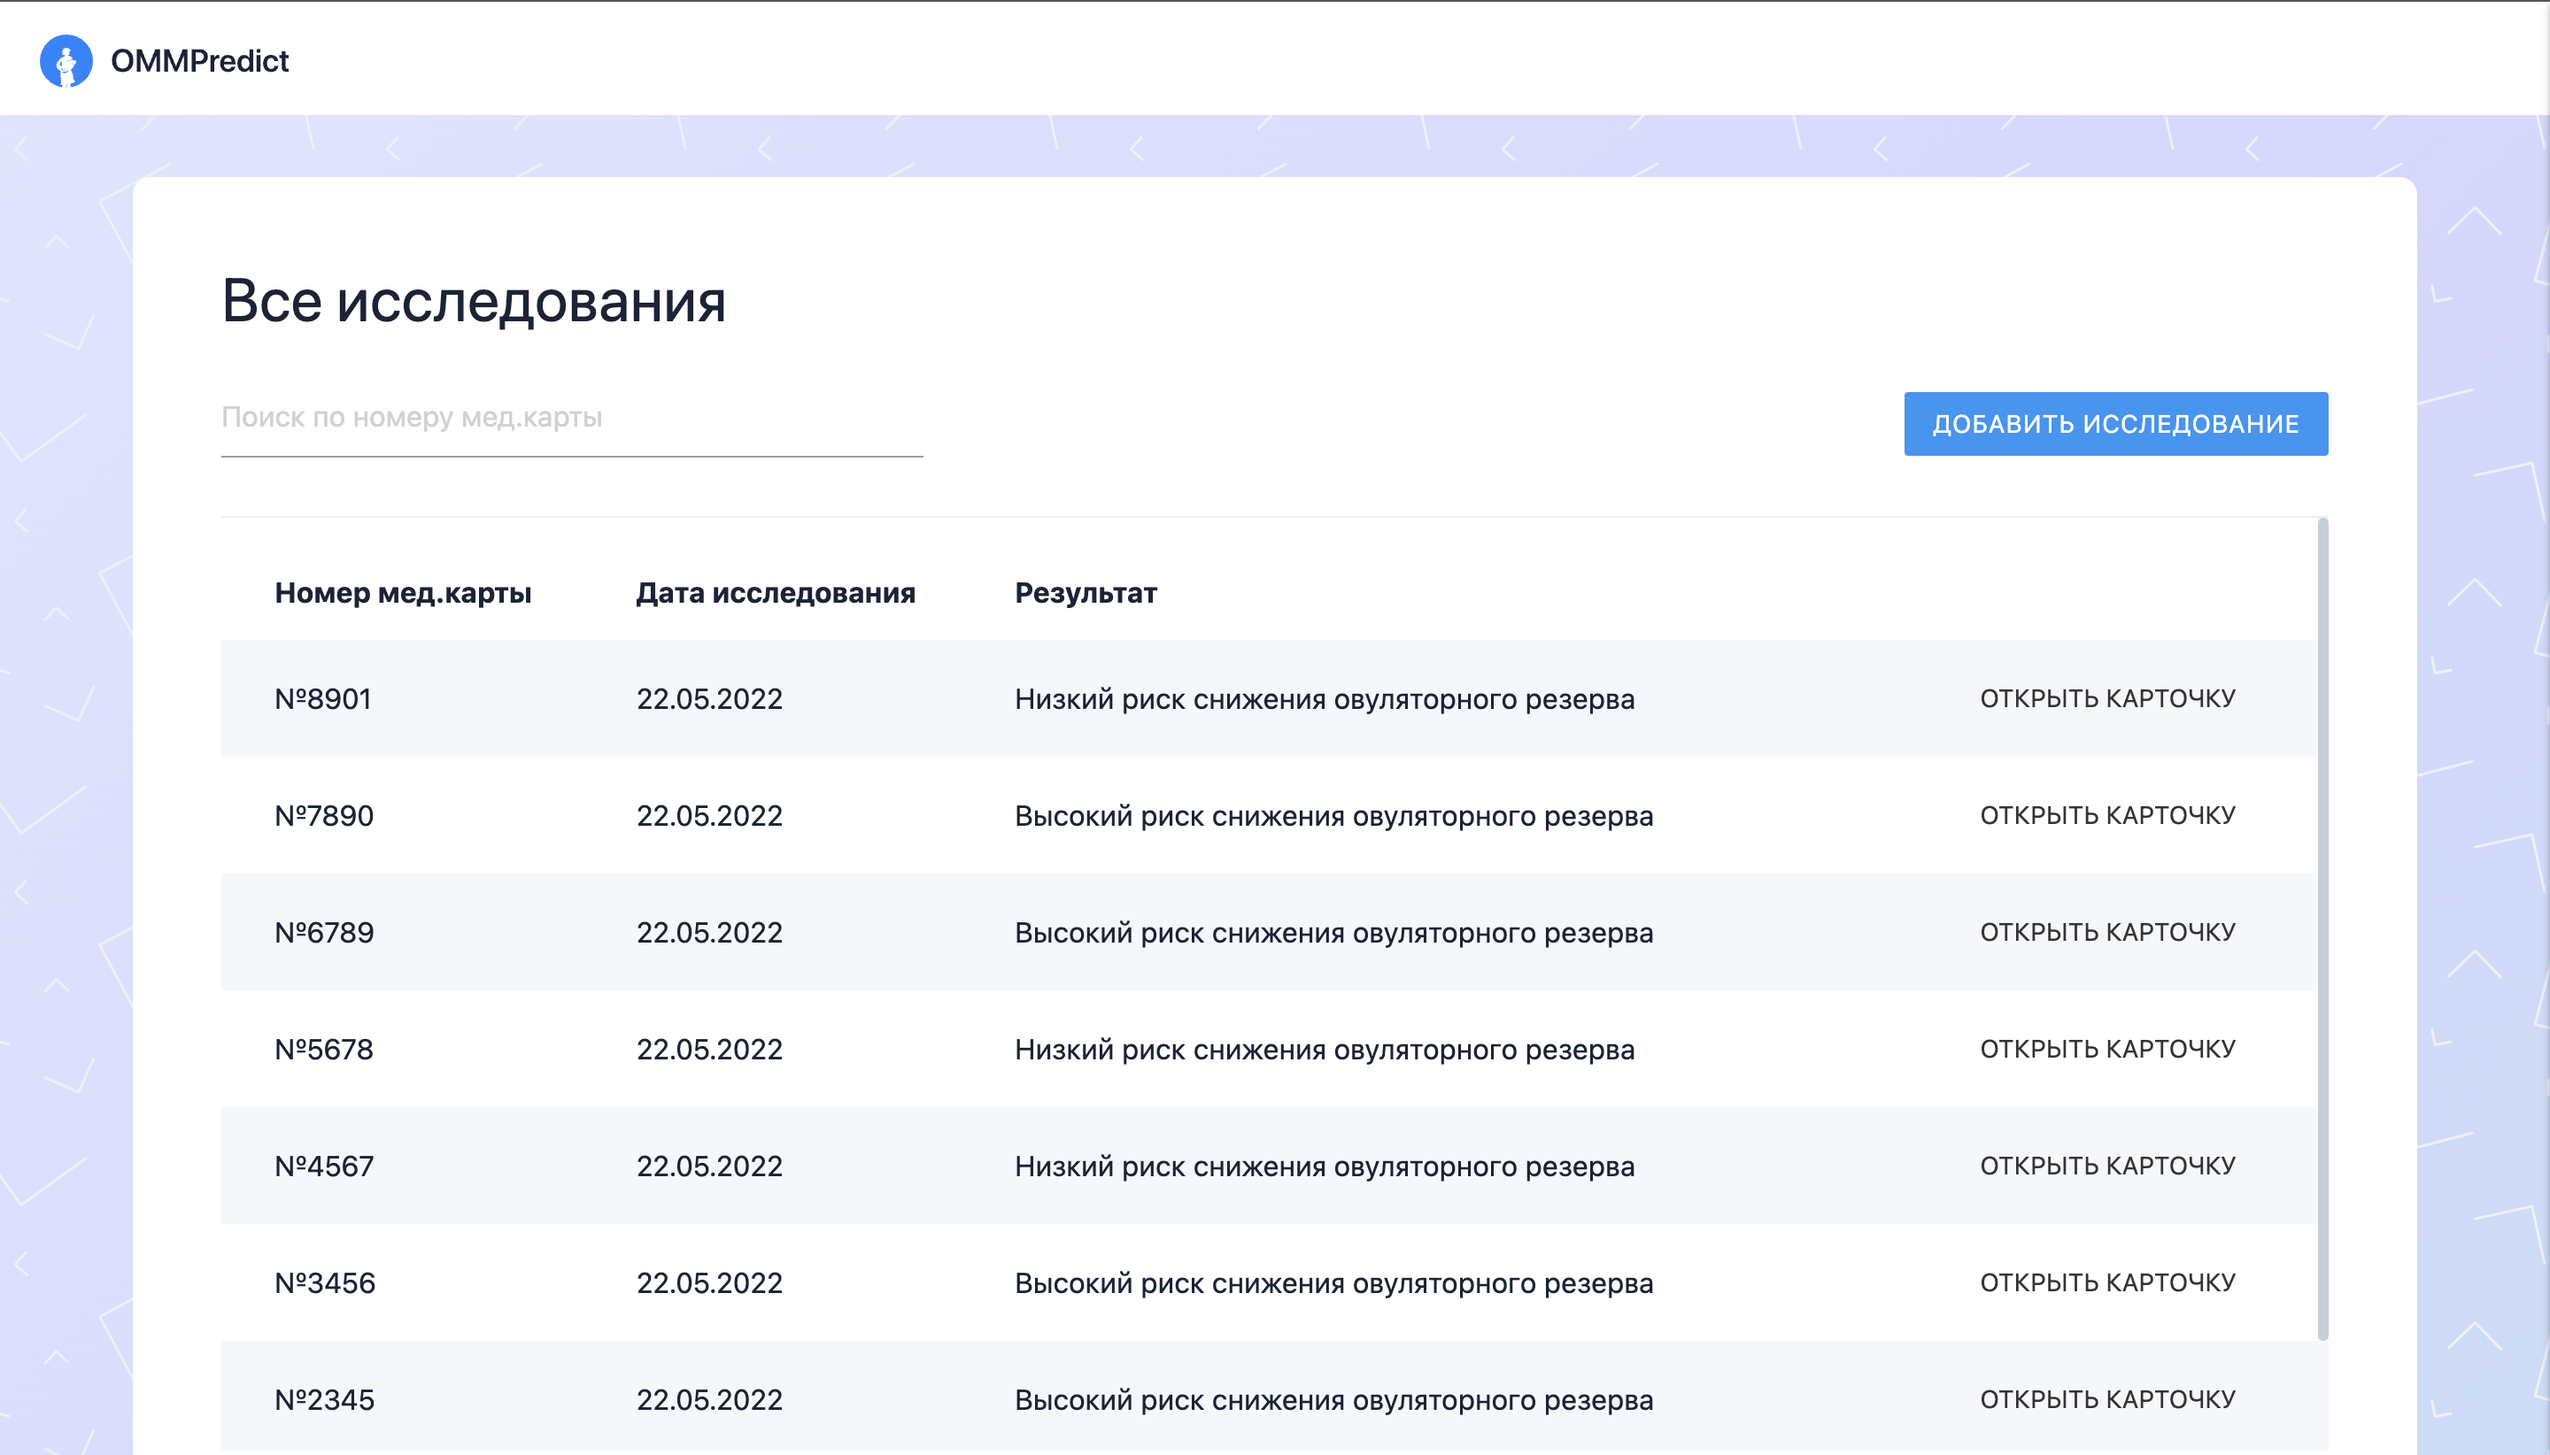
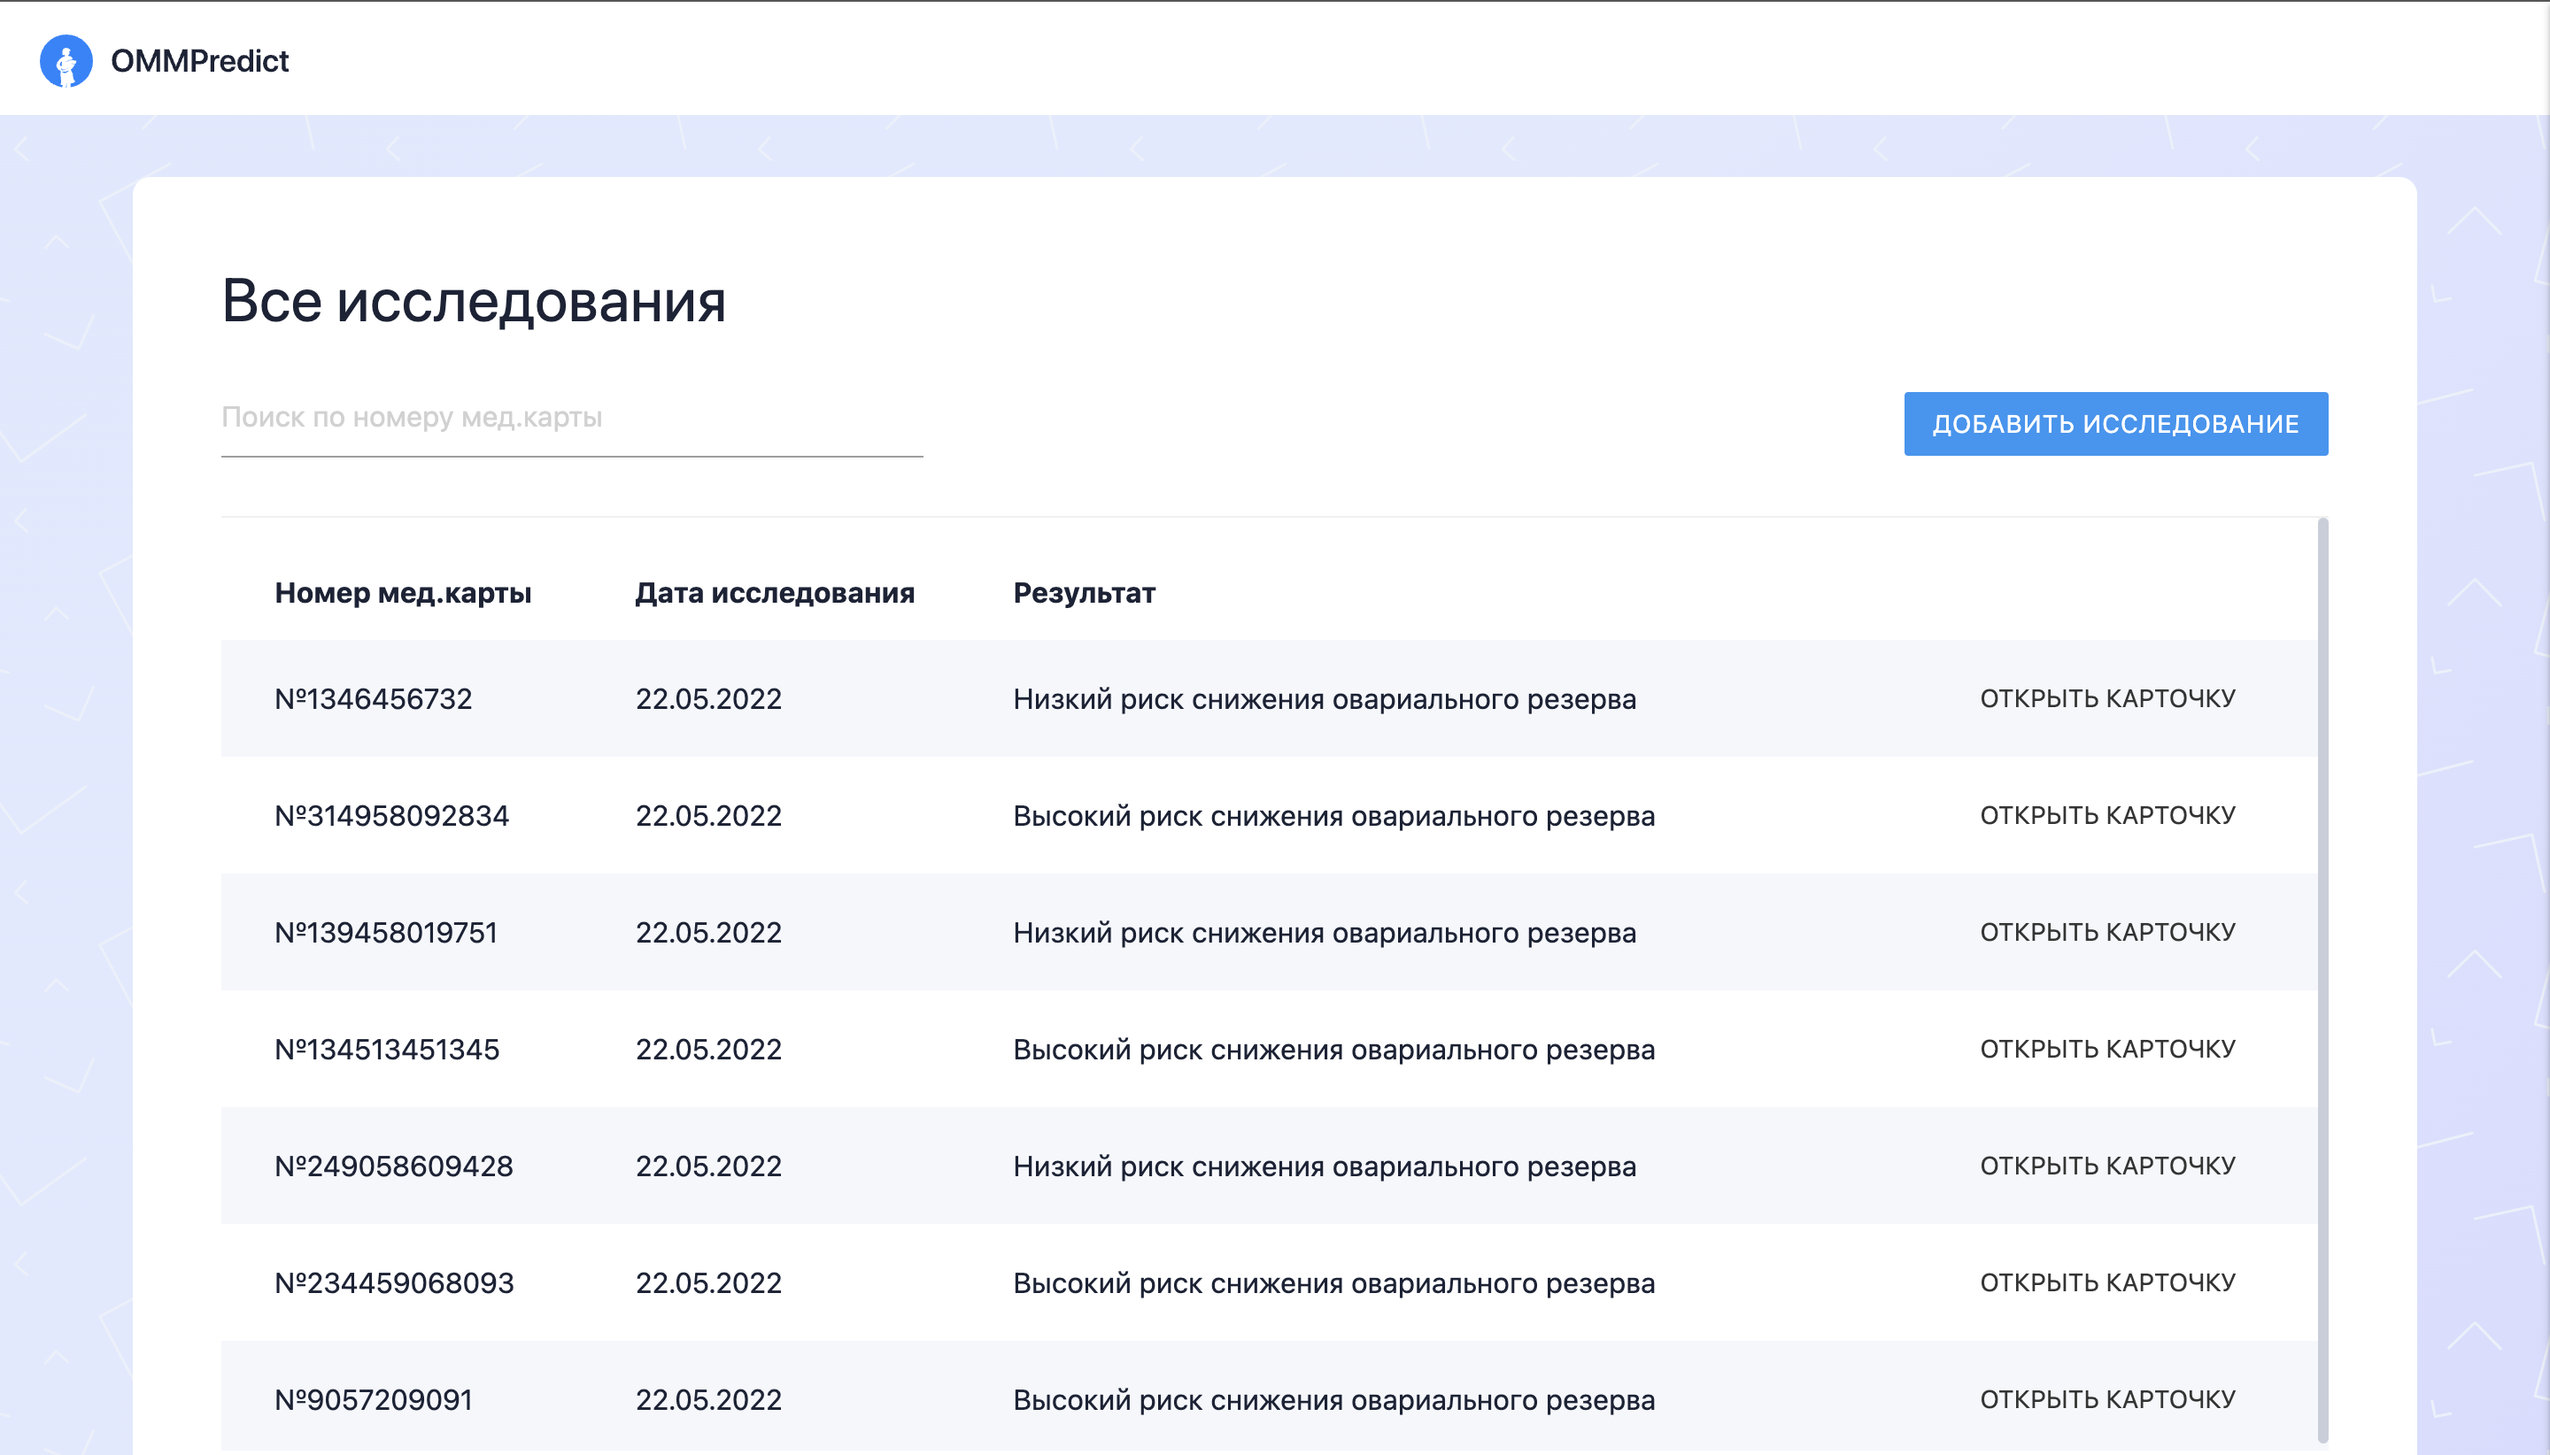
new screenshots, fix small bugs

diff --git a/Web-application (Flask)/app/static/js/sidepage.js b/Web-application (Flask)/app/static/js/sidepage.js
@@ -47,13 +47,13 @@ function fillData(data) {
                 <p>${data[0].date_research}</p>
             </div>
             <div class="resultside col s3">
-                <p class="resultside__p" style="color: white !important; background-color: #66bb6a;">Низкий риск снижения овуляторного резерва</p>
+                <p class="resultside__p" style="color: white !important; background-color: #66bb6a;">Низкий риск снижения овариального резерва</p>
             </div>
             <div class="divider"></div>
             <form class="params" id="params" data-id="${data[0].id}">
                 <div class="input-field col s3 paramsside">
-                    <select class="input-text" value="${data[0].relapse}" id="relapse" type="text" name="relapse" required>
-                    <option value="${data[0].relapse}" disabled selected>${data[0].relapse}</option>
+                    <select form="params" class="input-select" value="${data[0].relapse}" id="relapse" type="text" name="relapse" required>
+                    <option value="${data[0].relapse}" selected>${data[0].relapse}</option>
                     <option value="1">1</option>
                     <option value="0">0</option>
                     </select>
@@ -140,44 +140,48 @@ function fillData(data) {
                 <p>${data[0].date_research}</p>
             </div>
             <div class="resultside col s3">
-                <p class="resultside__p" style="color: white !important; background-color: #ef5350;">Высокий риск снижения овуляторного резерва</p>
+                <p class="resultside__p" style="color: white !important; background-color: #ef5350;">Высокий риск снижения овариального резерва</p>
             </div>
             <div class="divider"></div>
             <form class="params" id="params" data-id="${data[0].id}">
                 <div class="input-field col s3 paramsside">
-                    <input class="input-text" value="${data[0].relapse}" id="relapse" type="text" name="relapse">
+                    <select class="input-select" form="params" value="${data[0].relapse}" id="relapse" type="text" name="relapse" required>
+                    <option value="${data[0].relapse}" selected>${data[0].relapse}</option>
+                    <option value="1">1</option>
+                    <option value="0">0</option>
+                    </select>
                     <label for="relapse">Рецидив эндометриомы яичника</label>
                 </div>
                 <div class="input-field col s3 paramsside">
-                    <input class="input-text" value="${data[0].periods}" id="periods" type="text" name="periods">
+                    <input class="input-text" value="${data[0].periods}" id="periods" type="text" name="periods" required>
                     <label for="periods">Менструация, дней</label>
                 </div>
                 <div class="input-field col s3 paramsside">
-                    <input class="input-text" value="${data[0].emergency_birth}" id="emergency_birth" type="text" name="emergency_birth">
+                    <input class="input-text" value="${data[0].emergency_birth}" id="emergency_birth" type="text" name="emergency_birth" required>
                     <label for="emergency_birth">Срочные оперативные роды (кол-во)</label>
                 </div>
                 <div class="input-field col s3 paramsside">
-                    <input class="input-text" value="${data[0].first_symptom}" id="first_symptom" type="text" name="first_symptom">
+                    <input class="input-text" value="${data[0].first_symptom}" id="first_symptom" type="text" name="first_symptom" required>
                     <label for="first_symptom">Появление первых симптомов (лет)</label>
                 </div>
                 <div class="input-field col s3 paramsside">
-                    <input class="input-text" value="${data[0].fsh}" id="fsh" type="text" name="fsh">
+                    <input class="input-text" value="${data[0].fsh}" id="fsh" type="text" name="fsh" required>
                     <label for="fsh">ФСГ до операции, мМе/мл</label>
                 </div>
                 <div class="input-field col s3 paramsside">
-                    <input class="input-text" value="${data[0].mecho}" id="mecho" type="text" name="mecho">
+                    <input class="input-text" value="${data[0].mecho}" id="mecho" type="text" name="mecho" required>
                     <label for="mecho">М-Эхо</label>
                 </div>
                 <div class="input-field col s3 paramsside">
-                    <input class="input-text" value="${data[0].vleft}" id="vleft" type="text" name="vleft">
+                    <input class="input-text" value="${data[0].vleft}" id="vleft" type="text" name="vleft" required>
                     <label for="vleft">V левого яичника</label>
                 </div>
                 <div class="input-field col s3 paramsside">
-                    <input class="input-text" value="${data[0].vright}" id="vright" type="text" name="vright">
+                    <input class="input-text" value="${data[0].vright}" id="vright" type="text" name="vright" required>
                     <label for="vright">V правого яичника</label>
                 </div>
                 <div class="input-field col s3 paramsside">
-                    <select name="vegfa634" form="params" class="input-select" id="vegfa634" type="text" name="vegfa634">
+                    <select name="vegfa634" form="params" class="input-select" id="vegfa634" type="text" name="vegfa634" required>
                         <option value="${data[0].vegfa634}" selected>${data[0].vegfa634}</option>
                         <option value="CC">CC</option>
                         <option value="GC">GC</option>
@@ -186,7 +190,7 @@ function fillData(data) {
                     <label for="vegfa634">VEGF-A: -634</label>
                 </div>
                 <div class="input-field col s3 paramsside">
-                    <select name="tp53" form="params" class="input-select" id="tp53" type="text" name="tp53">
+                    <select name="tp53" form="params" class="input-select" id="tp53" type="text" name="tp53" required>
                         <option value="${data[0].tp53}" selected>${data[0].tp53}</option>
                         <option value="CC">CC</option>
                         <option value="GC">GC</option>
@@ -195,7 +199,7 @@ function fillData(data) {
                     <label for="tp53">TP53: Ex4+119</label>
                 </div>
                 <div class="input-field col s3 paramsside">
-                    <select name="vegfa936" form="params" class="input-select" id="vegfa936" type="text" name="vegfa936">
+                    <select name="vegfa936" form="params" class="input-select" id="vegfa936" type="text" name="vegfa936" required>
                         <option value="${data[0].vegfa936}" selected>${data[0].vegfa936}</option>
                         <option value="CC">CC</option>
                         <option value="CT">CT</option>
@@ -204,7 +208,7 @@ function fillData(data) {
                     <label for="vegfa936">VEFG-A: +936</label>
                 </div>
                 <div class="input-field col s3 paramsside">
-                    <select name="kitlg80441" form="params" class="input-select" id="kitlg80441" type="text" name="kitlg80441">
+                    <select name="kitlg80441" form="params" class="input-select" id="kitlg80441" type="text" name="kitlg80441" required>
                         <option value="${data[0].kitlg80441}" selected>${data[0].kitlg80441}</option>
                         <option value="CC">CC</option>
                         <option value="CT">CT</option>

diff --git a/Web-application (Flask)/app/templates/index.html b/Web-application (Flask)/app/templates/index.html
@@ -7,7 +7,7 @@
 		<link rel="stylesheet" href="https://cdnjs.cloudflare.com/ajax/libs/materialize/1.0.0/css/materialize.min.css">
 		<link rel="stylesheet" href="../static/styles.css">
 		<link type="image/x-icon" href="../static/assets/favicon.ico" rel="shortcut icon">
-		<title>OMMPredict - Сервис прогнозирования снижения овуляторного резерва</title>
+		<title>OMMPredict - Сервис прогнозирования снижения овариального резерва</title>
     </head>
 
     <body>
@@ -48,9 +48,9 @@
 									<td>{{ patient.date_research }}</td>
 									<td>
 										{% if patient.target == False %}
-											Низкий риск снижения овуляторного резерва
+											Низкий риск снижения овариального резерва
 										{% else %}
-											Высокий риск снижения овуляторного резерва
+											Высокий риск снижения овариального резерва
 										{% endif %}
 									</td>
 									<td style="text-align: right;"><a data-target="slide-out" data-id="{{ patient.id }}" class="waves-effect btn-flat sidenav-trigger side-open">Открыть карточку</a></td>
